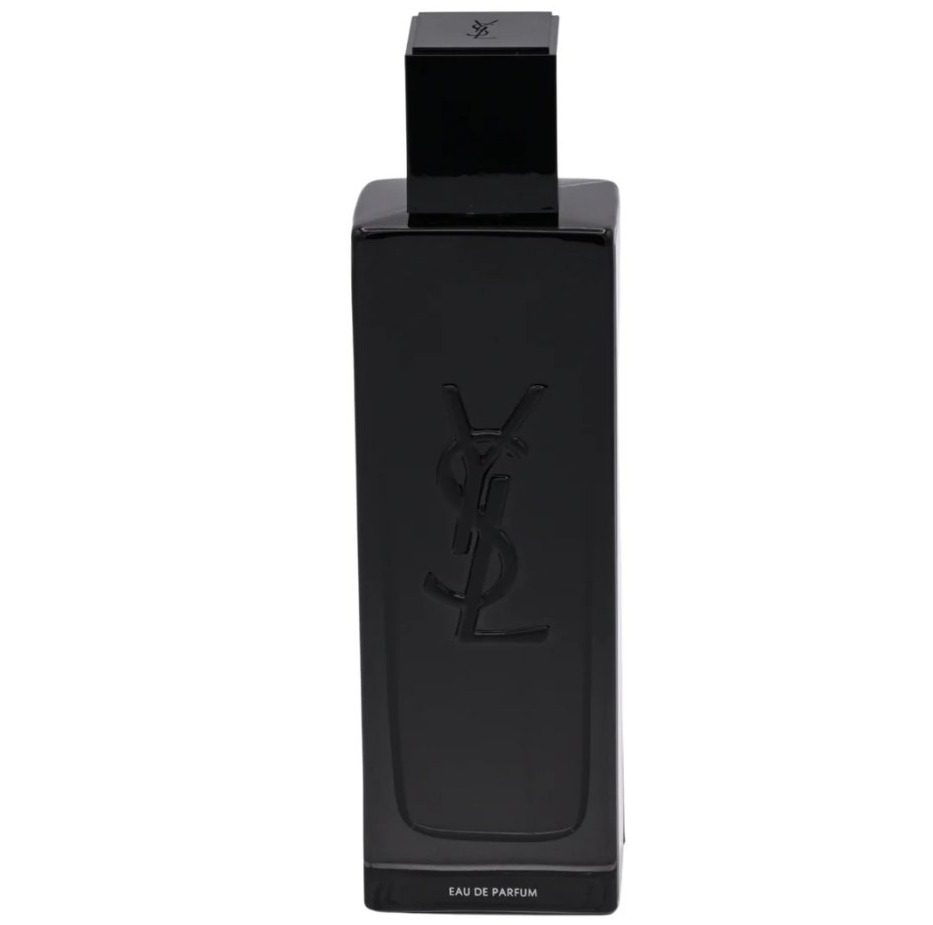
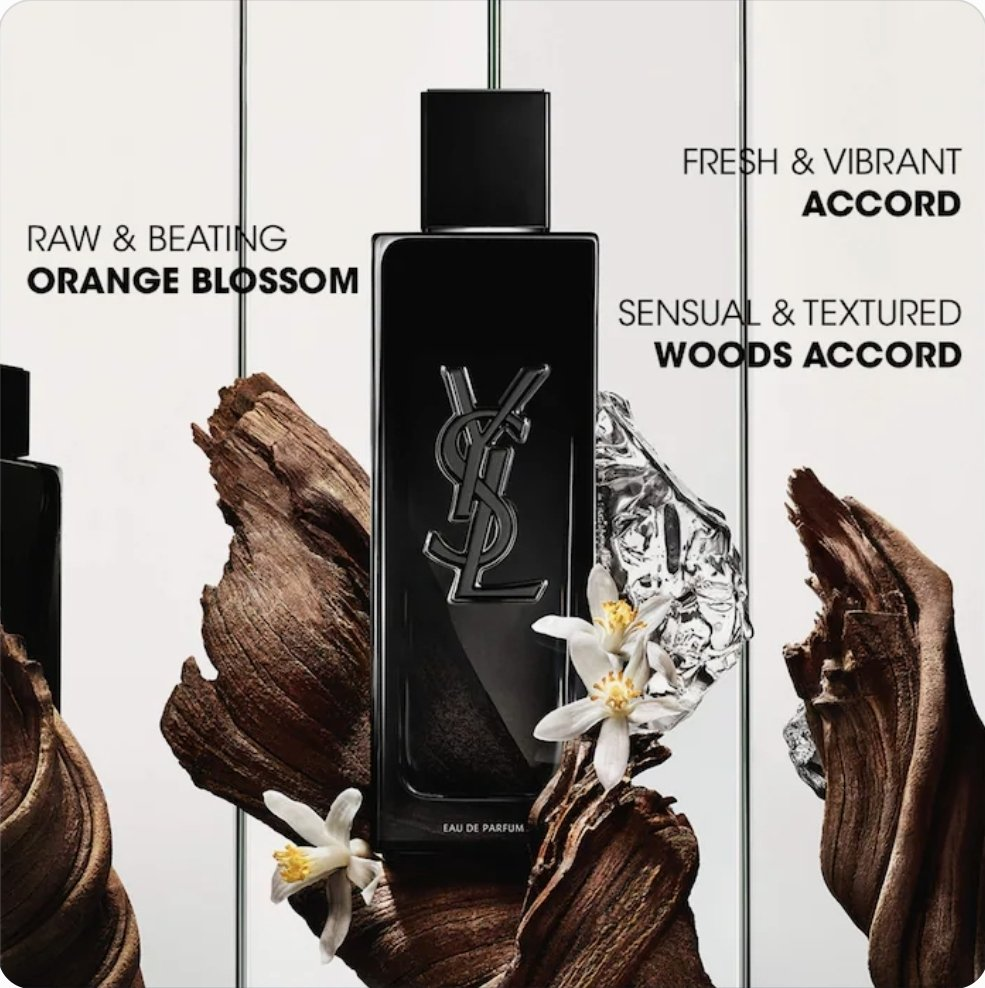
Replace YSL Myslf photos with Boss's new shots

diff --git a/index.html b/index.html
@@ -711,7 +711,7 @@
         { name:'Lattafa Yara Candy Perfume for Women', niche:'Lattafa · Women · 3.4 oz EDP', direction:'Juicy berries, vanilla and caramel', description:'A playful burst of juicy berries settles into creamy vanilla and soft caramel sweetness. Bright, cheerful and easy to wear when you want something fun.', category:'sweet', images:[{src:'assets/product-lattafa-yara-candy.jpg', alt:'Lattafa Yara Candy bottle and pink box — clean packshot'},{src:'assets/gallery-lattafa-yara-candy-1.jpg', alt:'Lattafa Yara Candy Perfume for Women — customer photo 1'},{src:'assets/gallery-lattafa-yara-candy-2.jpg', alt:'Lattafa Yara Candy Perfume for Women — customer photo 2'},{src:'assets/gallery-lattafa-yara-candy-3.jpg', alt:'Lattafa Yara Candy Perfume for Women — customer photo 3'}], price:29, decantPrice:7, originalPrice:34, featured:20 , paymentLink:'https://buy.stripe.com/cNi7sN62JcIkgcyc0Pf7i1k'},
         { name:'Dolce & Gabbana Light Blue Cologne for Men', niche:'Dolce & Gabbana · Men · 4.2 oz EDT', direction:'Crisp citrus, aromatic herbs and clean woods', description:'A bright Mediterranean-style blend of citrus and fresh aromatics settles into a clean, lightly woody base. Easygoing and refreshing for warm days.', category:'fresh', images:[{src:'assets/product-dolce-gabbana-light-blue.jpg', alt:'Dolce & Gabbana Light Blue Pour Homme bottle and box on a clean white background'},{src:'assets/product-dolce-gabbana-light-blue-2.jpg', alt:'Dolce & Gabbana Light Blue Pour Homme bottle on a clean white background'}], price:68, decantPrice:17, originalPrice:80, featured:21 , paymentLink:'https://buy.stripe.com/aFa7sNaiZeQs5xU6Gvf7i0M'},
         { name:'Rasasi Hawas Ice Cologne for Men', niche:'Rasasi · Men · 3.38 oz EDP', direction:'Icy citrus, fruit and amber woods', description:'Cool citrus and juicy fruit create an energetic opening, followed by aromatic warmth and smooth amber woods. Fresh, modern and made to project.', category:'fresh', images:[{src:'assets/product-rasasi-hawas-ice.jpg', alt:'Rasasi Hawas Ice blue bottle and box on a clean white background'},{src:'assets/product-rasasi-hawas-ice-2.jpg', alt:'Rasasi Hawas Ice blue bottle on a clean white background'},{src:'assets/product-rasasi-hawas-ice-3.jpg', alt:'Rasasi Hawas Ice bottle with fragrance notes breakdown graphic'}], price:55, decantPrice:14, originalPrice:68, featured:22 , paymentLink:'https://buy.stripe.com/4gMfZjdvb7o08K68ODf7i13'},
-        { name:'Yves Saint Laurent Myslf Cologne for Men', niche:'Yves Saint Laurent · Men · 3.4 oz EDP', direction:'Bright citrus, orange blossom and woods', description:'Sparkling citrus meets a clean orange-blossom heart and a warm woody finish. Polished and versatile, with a contemporary dressed-up feel.', category:'fresh', images:[{src:'assets/product-ysl-myslf.jpg', alt:'Yves Saint Laurent Myslf black bottle and box — clean packshot'},{src:'assets/gallery-ysl-myslf-1.jpg', alt:'Yves Saint Laurent Myslf Cologne for Men — customer photo 1'},{src:'assets/gallery-ysl-myslf-2.jpg', alt:'Yves Saint Laurent Myslf Cologne for Men — customer photo 2'},{src:'assets/gallery-ysl-myslf-3.jpg', alt:'Yves Saint Laurent Myslf Cologne for Men — customer photo 3'}], price:125, decantPrice:31, originalPrice:145, featured:23 , paymentLink:'https://buy.stripe.com/fZu7sNfDj8s49Oa3ujf7i0R'},
+        { name:'Yves Saint Laurent Myslf Cologne for Men', niche:'Yves Saint Laurent · Men · 3.4 oz EDP', direction:'Bright citrus, orange blossom and woods', description:'Sparkling citrus meets a clean orange-blossom heart and a warm woody finish. Polished and versatile, with a contemporary dressed-up feel.', category:'fresh', images:[{src:'assets/product-ysl-myslf.jpg', alt:'Yves Saint Laurent Myslf black bottle on a clean white background'},{src:'assets/gallery-ysl-myslf-1.jpg', alt:'Yves Saint Laurent Myslf bottle with woods and orange blossom accords graphic'},{src:'assets/gallery-ysl-myslf-2.jpg', alt:'Yves Saint Laurent Myslf bottle and black box on a clean white background'}], price:125, decantPrice:31, originalPrice:145, featured:23 , paymentLink:'https://buy.stripe.com/fZu7sNfDj8s49Oa3ujf7i0R'},
         { name:'Versace Eros Flame Cologne for Men', niche:'Versace · Men · 3.4 oz EDP', direction:'Spiced citrus, herbs and vanilla woods', description:'Vibrant citrus and pepper lead into aromatic herbs, warm woods and vanilla. Fiery and confident, with a bold evening-ready trail.', category:'amber', images:[{src:'assets/product-versace-eros-flame.jpg', alt:'Versace Eros Flame red bottle and box — clean packshot'},{src:'assets/gallery-versace-eros-flame-1.jpg', alt:'Versace Eros Flame Cologne for Men — customer photo 1'},{src:'assets/gallery-versace-eros-flame-2.jpg', alt:'Versace Eros Flame Cologne for Men — customer photo 2'},{src:'assets/gallery-versace-eros-flame-3.jpg', alt:'Versace Eros Flame Cologne for Men — customer photo 3'},{src:'assets/gallery-versace-eros-flame-4.jpg', alt:'Versace Eros Flame Cologne for Men — customer photo 4'}], price:79, decantPrice:20, originalPrice:95, featured:24 , paymentLink:'https://buy.stripe.com/28E5kFbn30ZC3pMc0Pf7i0S'},
         { name:'Lattafa His Confession Cologne for Men', niche:'Lattafa · Men · 3.4 oz EDP', direction:'Warm spice, iris and amber woods', description:'A smooth blend of warm spice and powdery iris deepens into amber, vanilla and woods. Rich and composed, with a softly mysterious finish.', category:'amber', images:[{src:'assets/product-lattafa-his-confession.jpg', alt:'Lattafa His Confession bust bottle and black box on a clean white background'},{src:'assets/product-lattafa-his-confession-2.jpg', alt:'Lattafa His Confession bust bottle on a clean white background'}], price:36, decantPrice:9, originalPrice:44, featured:25 , paymentLink:'https://buy.stripe.com/dRmcN7bn337KbWifd1f7i0Q'},
         { name:'Al Haramain Amber Oud Ruby Perfume for Women', niche:'Al Haramain · Women · 3.4 oz EDP', direction:'Saffron, amberwood and warm musk', description:'Radiant saffron and warm amberwood meet a smooth musky base. Bold and polished, with a rich sweetness that lingers.', category:'amber', images:[{src:'assets/product-al-haramain-amber-oud-ruby.jpg', alt:'Al Haramain Amber Oud Ruby bottle front on a clean white background'},{src:'assets/product-al-haramain-amber-oud-ruby-2.jpg', alt:'Al Haramain Amber Oud Ruby bottle and box on a clean white background'}], price:59, decantPrice:15, originalPrice:72, featured:26 , paymentLink:'https://buy.stripe.com/aFacN776NcIkgcy3ujf7i0P'},
